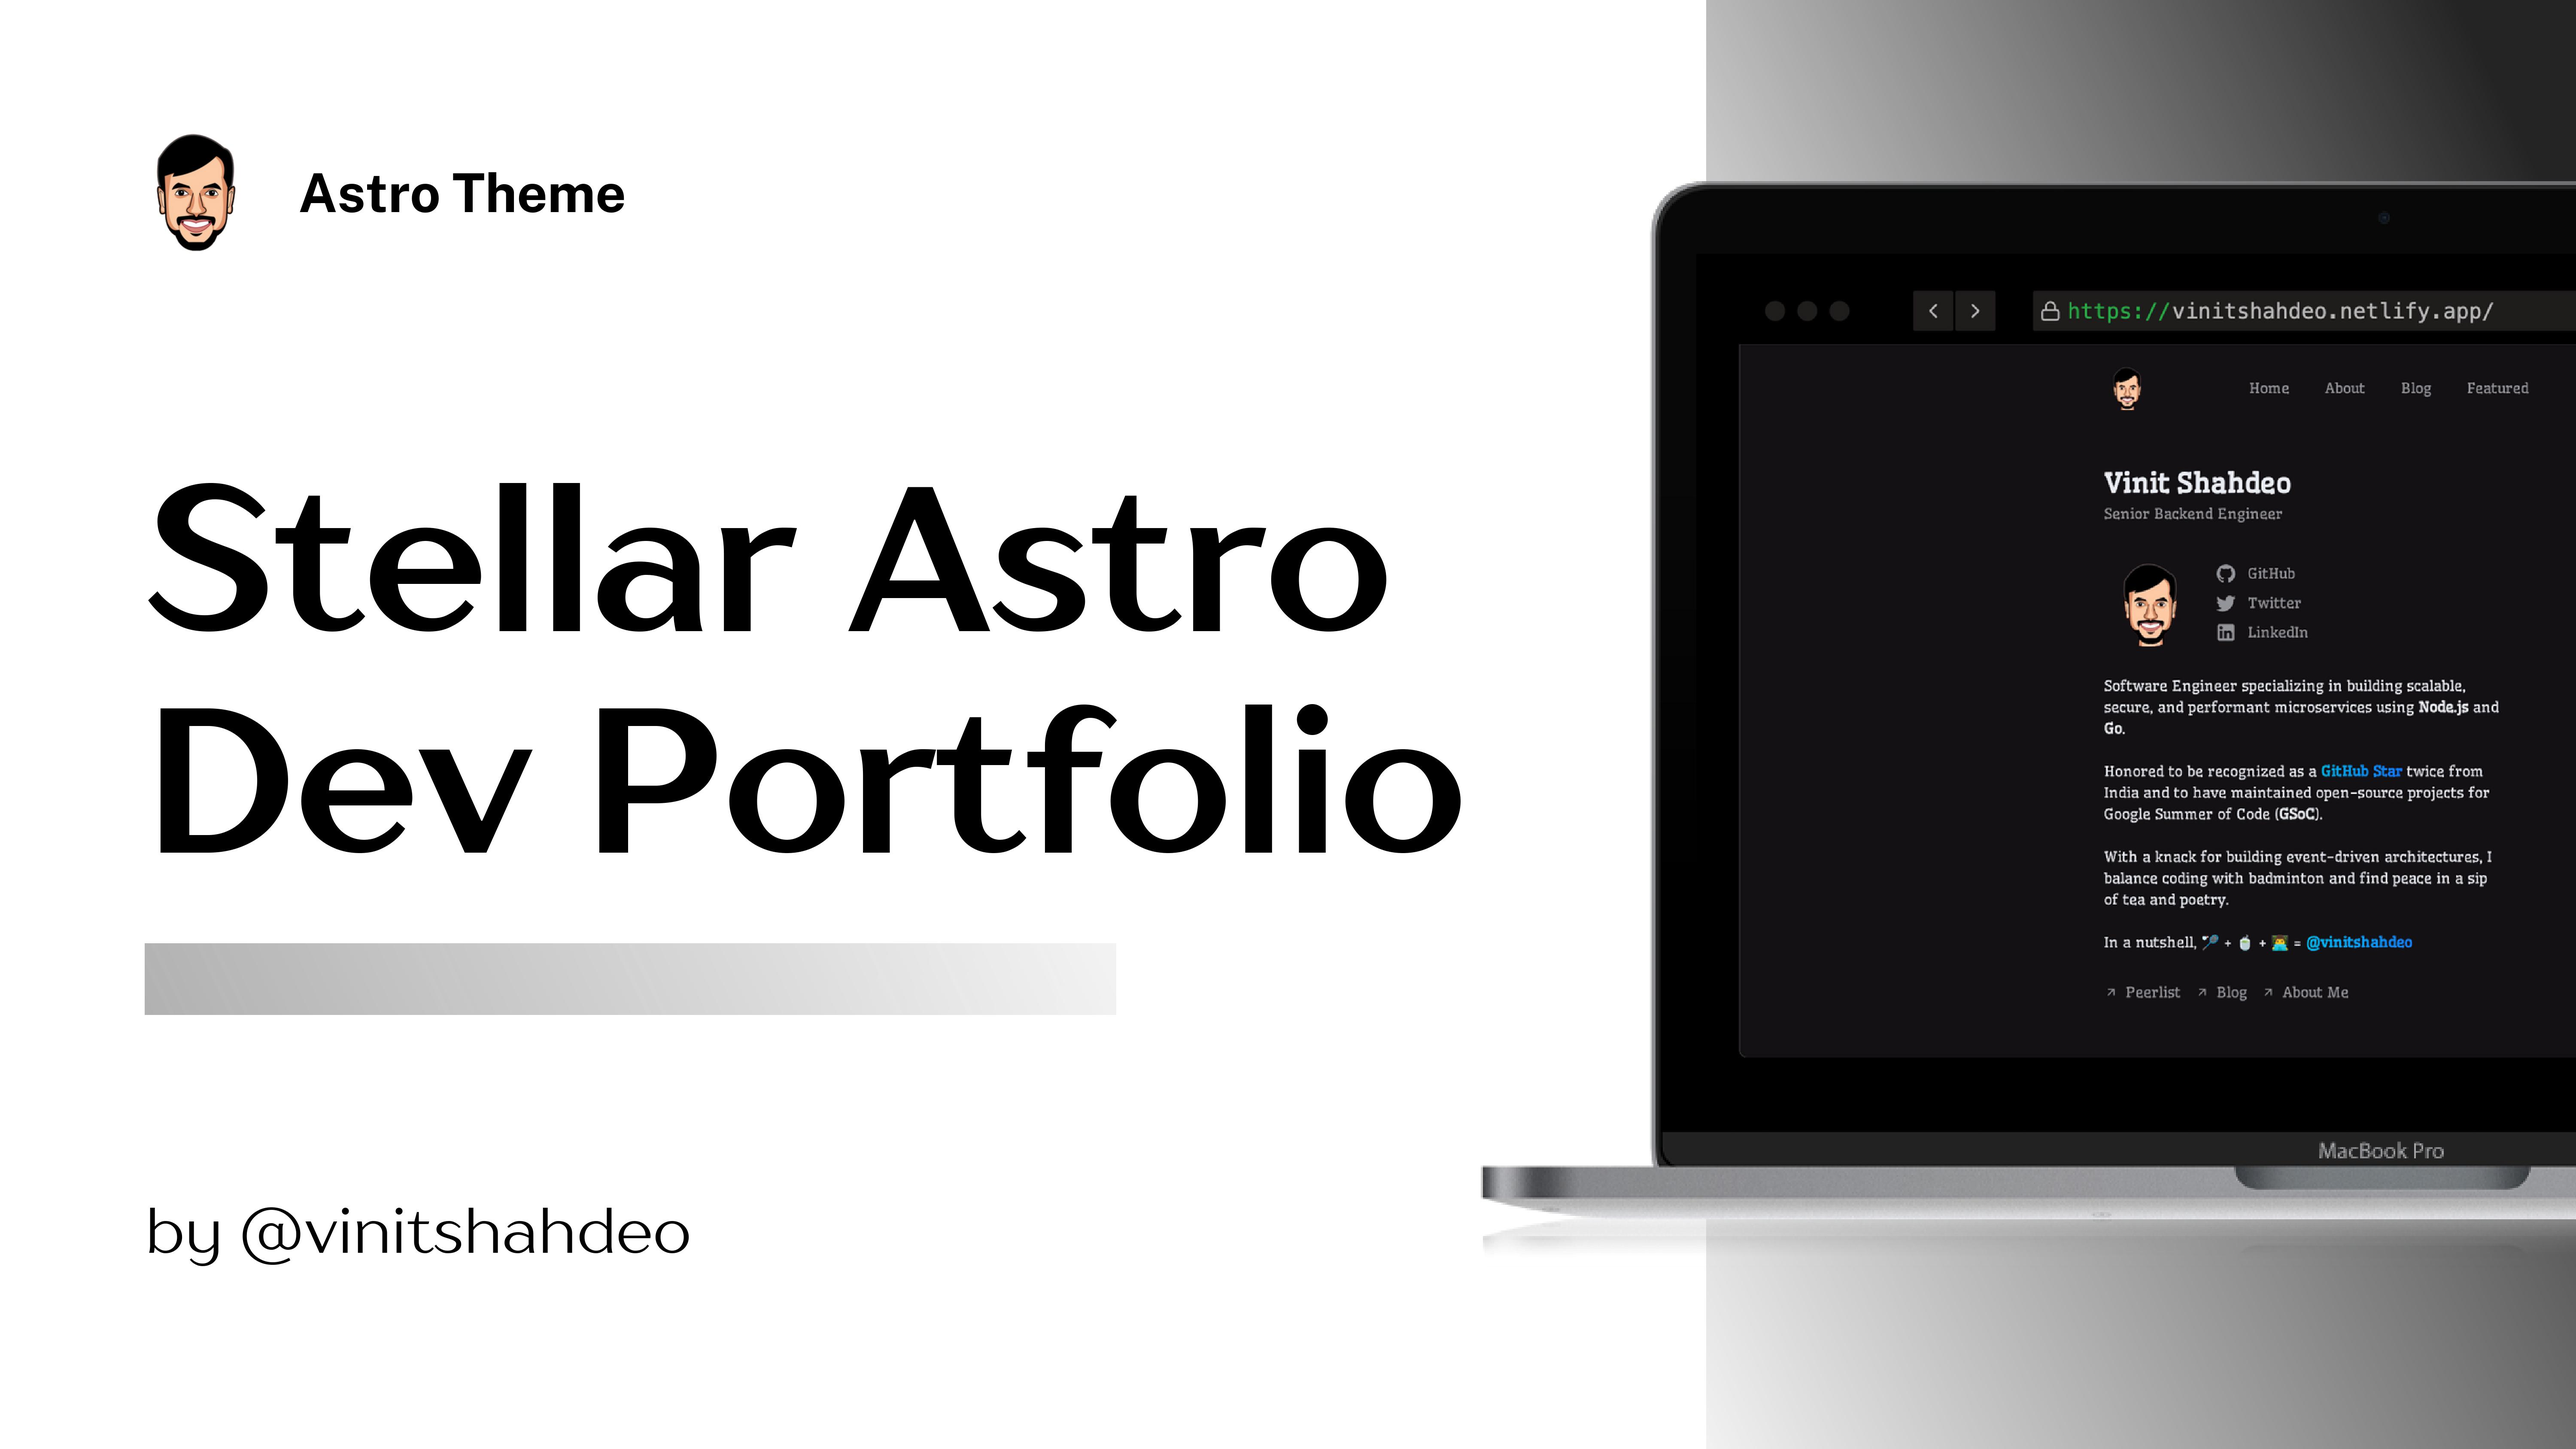
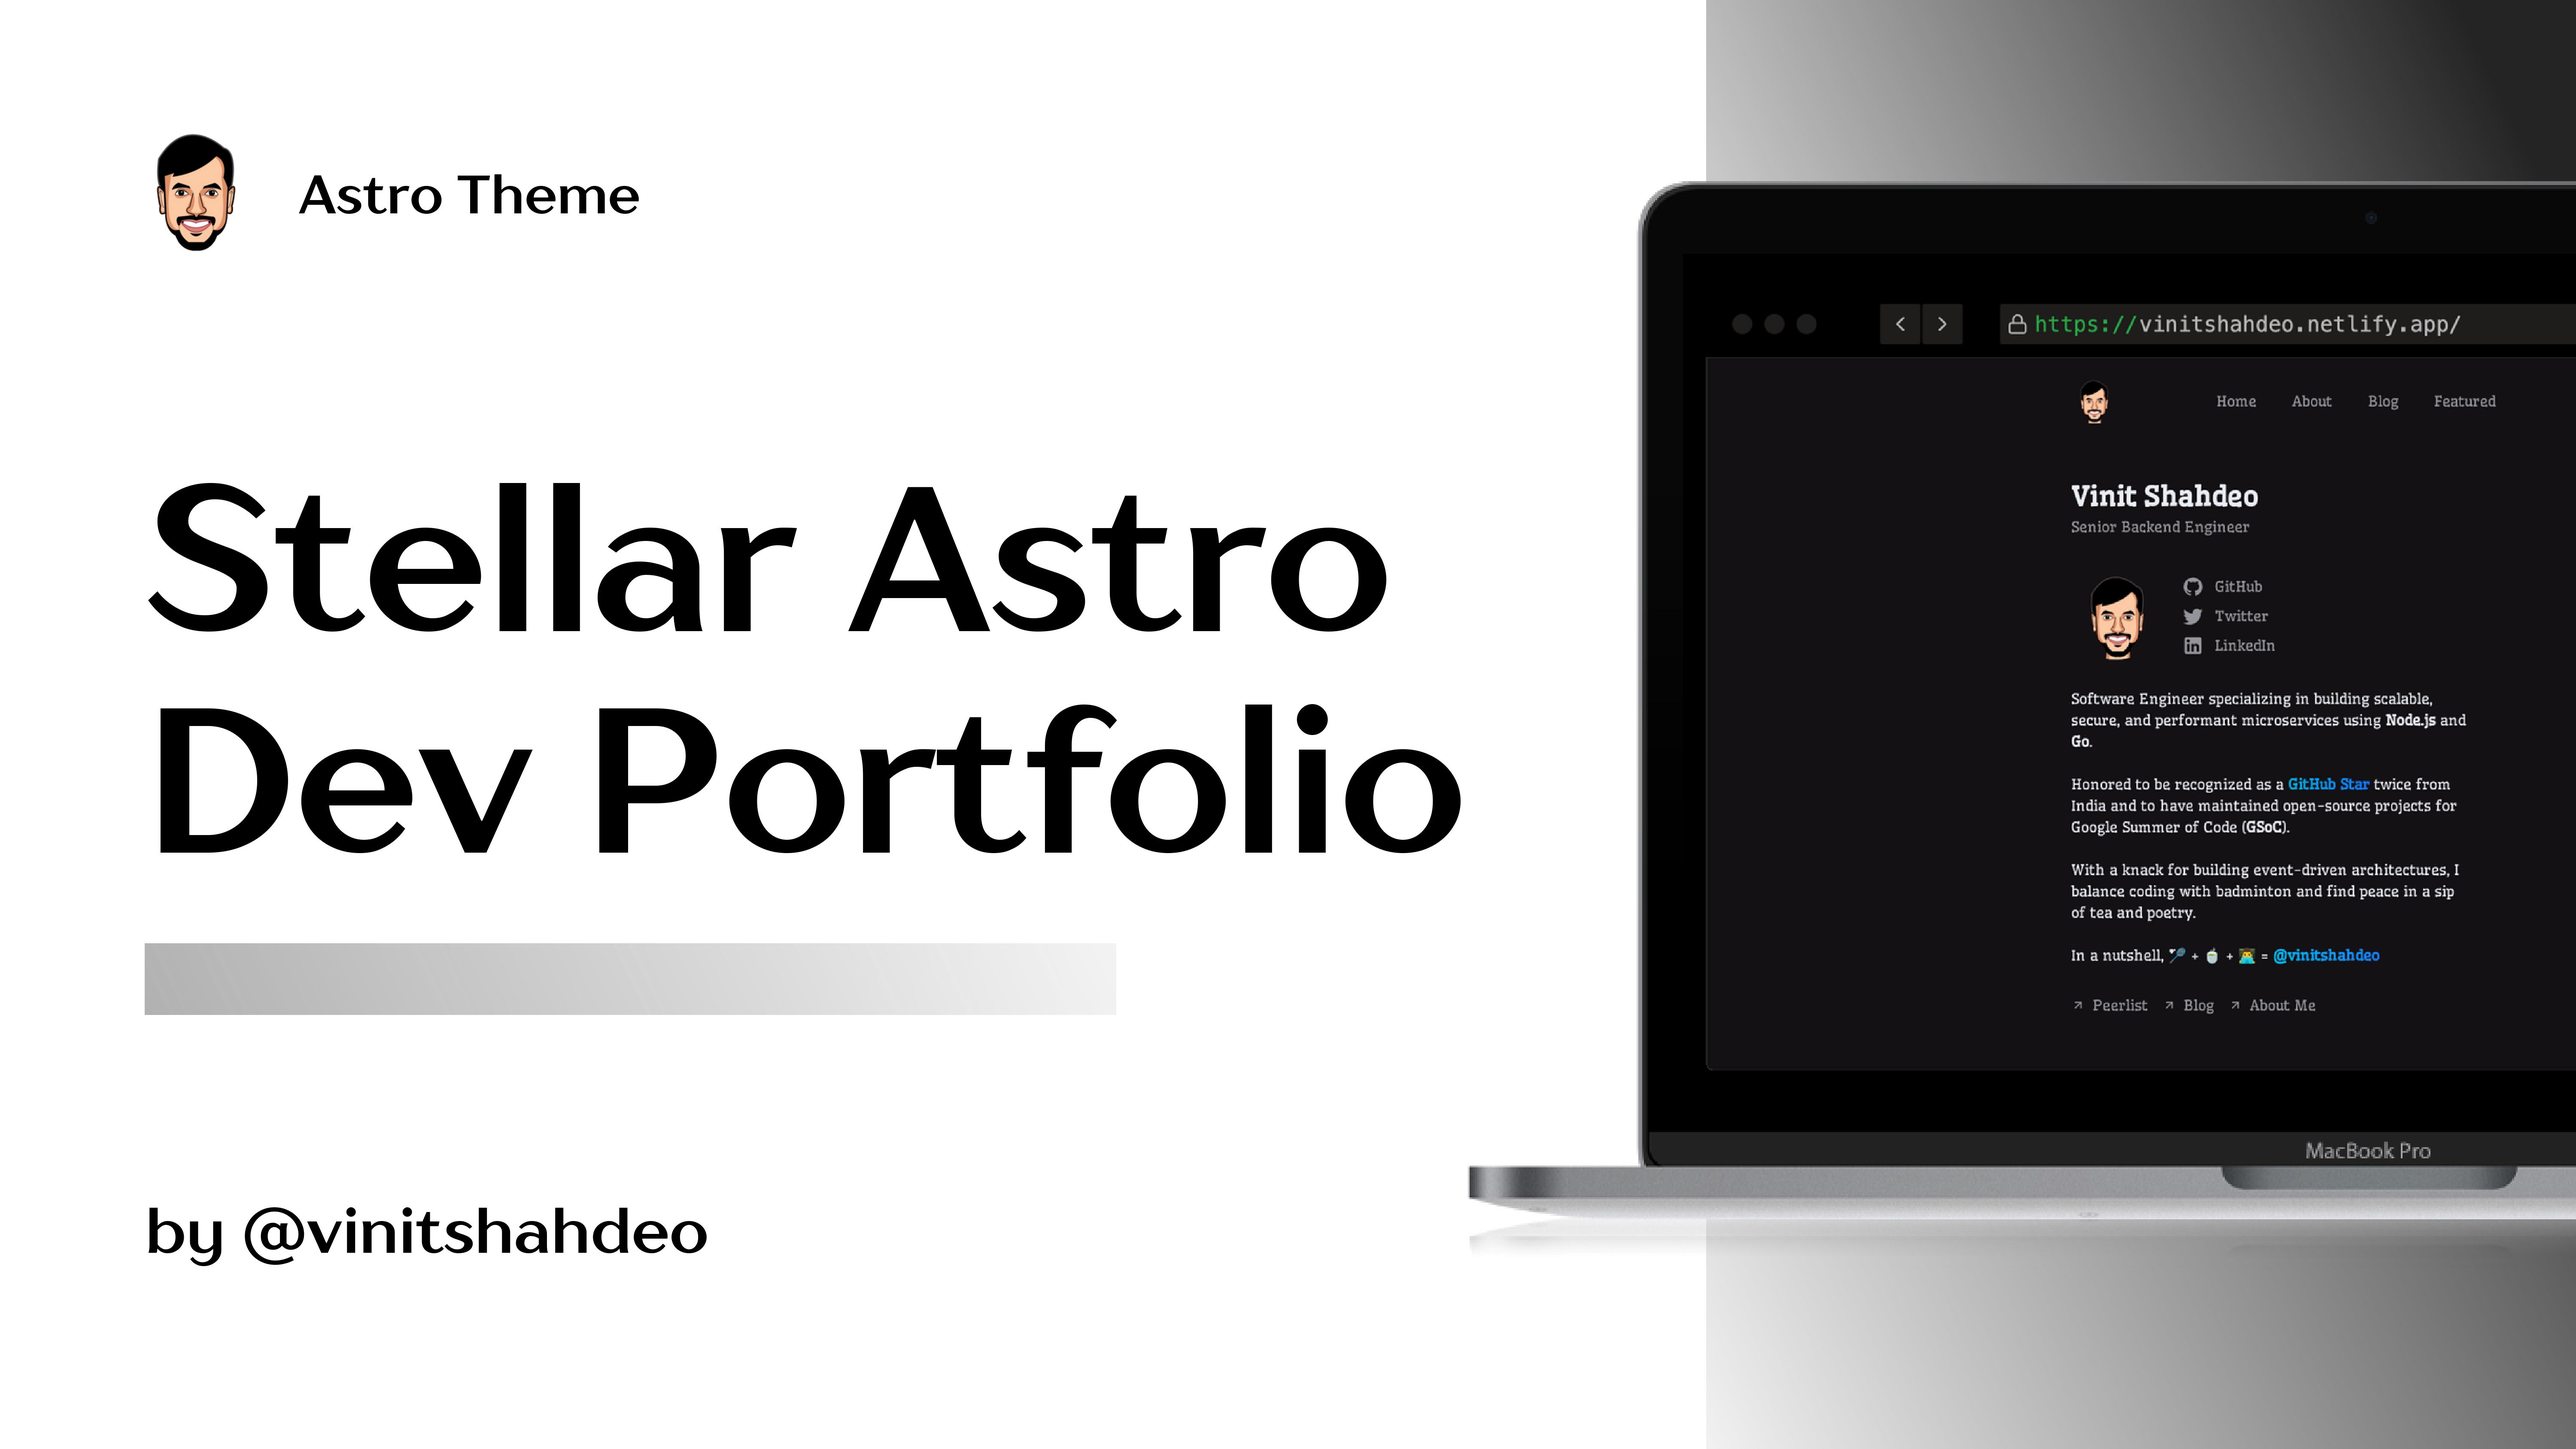
Updated cover image

diff --git a/README.md b/README.md
@@ -1,8 +1,6 @@
 <div align="center">
-    <img src="./.assets/vinitshahdeo-portfolio-cover-1.png" alt="Vinit Shahdeo Portfolio" />
-    <h1 align="center">Astro Portfolio — Vinit Shahdeo</h1>
-    <img src="https://astro.badg.es/v2/built-with-astro/small.svg" alt="Built with Astro" />
     <img src="./.assets/vinitshahdeo-portfolio-cover.png" alt="Vinit Shahdeo Portfolio" />
+    <h1 align="center">Astro Portfolio — Vinit Shahdeo</h1>
     <p align="center"><strong>Stellar Astro Dev Portfolio Template</strong></p><br/>
 </div>
 
